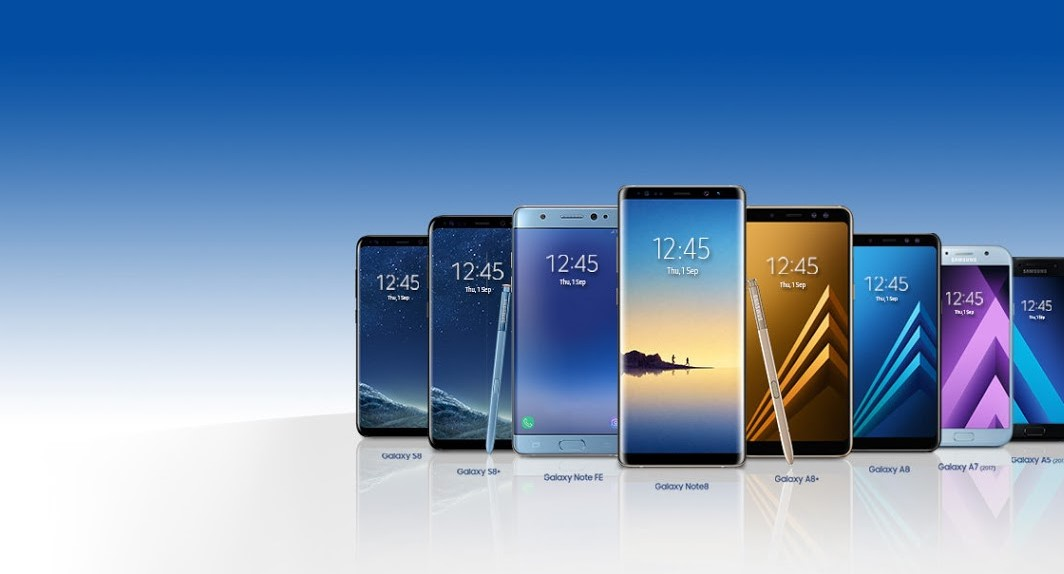
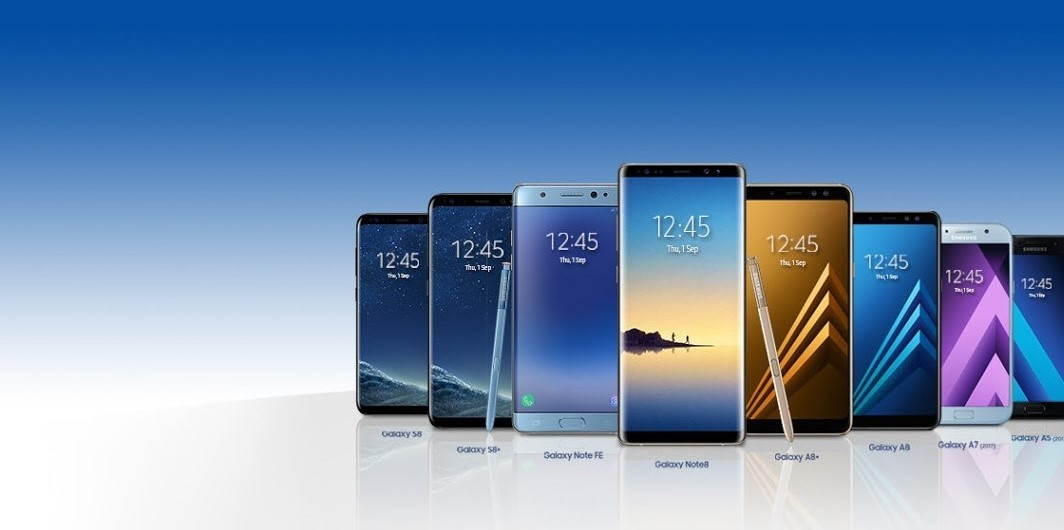
corousel

diff --git a/index.html b/index.html
@@ -3,7 +3,11 @@
   <head>
     <!-- Required meta tags -->
     <meta charset="utf-8">
-    <meta name="viewport" content="width=device-width, initial-scale=1, shrink-to-fit=no">
+    <meta http-equiv="X-UA-Compatible" content="IE=edge">
+    <!-- <meta name="viewport" content="width=device-width, initial-scale=1, shrink-to-fit=no"> -->
+    <!-- Mobile Metas -->
+    <meta name="viewport" content="width=device-width, minimum-scale=1.0, maximum-scale=1.0, user-scalable=no">
+    
     <link rel="stylesheet" href="css/styles.css">
     <!-- Bootstrap CSS -->
     <script src='https://kit.fontawesome.com/a076d05399.js'></script>
@@ -14,7 +18,7 @@
   </head>
   <body>
    
-    <nav class="navbar navbar-expand-lg navbar-dark bg-info">
+    <nav class="navbar navbar-expand-lg navbar-dark">
             <a class="navbar-brand" href="index.html">GN MobileStore</a>
             <button class="navbar-toggler" type="button" data-toggle="collapse" data-target="#navbarSupportedContent" aria-controls="navbarSupportedContent" aria-expanded="false" aria-label="Toggle navigation">
               <span class="navbar-toggler-icon"></span>
@@ -74,11 +78,11 @@
         <span class="sr-only">Next</span>
       </a>
     </div>
-    <div class="container p-3" id="About" >
-      <div class="row justify-content-center bg-info">
-        <div class="col-4 text-center text-white">
-          <h2 class="font-weight-light text-center">About Us</h2>
-        </div>
+    <div class="container-fluid" id="About" >
+      <div class="row justify-content-center align-items-center sub-head">
+        <div class="col-6 text-white"> 
+          <h2 class="remove-whitespace font-weight-light text-center ">About</h2>
+        </div> 
       </div>
       <div class="row justify-content-center bg-light p-3">
         <div class="col-12 text-center">
@@ -91,10 +95,10 @@
         </div>
      </div>
     </div>
-  <div class="container p-3" id="Services">
-    <div class="row justify-content-center bg-info">
-      <div class="col-4 text-center text-white">
-        <h2 class="font-weight-light text-center">Services</h2>
+  <div class="container-fluid" id="Services">
+    <div class="row justify-content-center sub-head">
+      <div class="col-6  text-white text-center">
+        <h2 class="remove-whitespace font-weight-light text-center">Services</h2>
       </div>
     </div>
     <div class="row p-3 bg-light">
@@ -128,10 +132,10 @@
   </div>
 </div>
 
-<div class="container" id="contactUs">
-  <div class="row justify-content-center bg-info">
-    <div class="col-4 text-center text-white">
-      <h2 class="font-weight-light text-center">Contact Us</h2>
+<div class="container-fluid p-3" id="contactUs">
+  <div class="row justify-content-center sub-head">
+    <div class="col-6 text-white">
+      <h2 class="font-weight-light text-center remove-whitespace">Contact</h2>
     </div>
   </div>
   <div class="row justify-content-center p-3 bg-light">
@@ -142,11 +146,12 @@
     </div>
   </div>
   <br>
+  <div class="container-fluid p-3 ">
   <div class="row justify-content-center">
     <div class="col-xl-4 col-lg-4 col-md-4 col-sm-12 thumb bg-white">
-    <div class="card">
-      <img class="card-img-top" src="images/owner.jpg" style="height:300px;"  alt="Card image cap">
-      <div class="card-body">
+    <div class="card" style="height: 100%;">
+      <img class="card-img-top" src="images/owner.jpg"  style="height: 400px;" alt="Card image cap">
+      <div class="card-body owner">
         <h1 class="font-weight-light">Rohit Sachdeva</h1>
         <span><i class="fa fa-quote-left"></i> Owner <i class="fa fa-quote-right"></i></span>
       </div>
@@ -172,32 +177,32 @@
                <p>It is a long established fact that a reader will be distracted by the readable content of a page when looking at its layout. The point of using Lorem  </p>
             </div>
         </div> -->
-        <div class="col-xl-4 col-lg-4 col-md-4 col-sm-12 thumb bg-info">
-          <div class="container">
-             <form>
-                <div class="row justify-content-center">
+        <div class="col-xl-4 col-lg-4 col-md-4 col-sm-12 thumb">
+          <div class="container sub-head rounded" style="height: 100%;">
+             <form action="/send_email" method="post">
+                <div class="row justify-content-center p-3">
                    <div class="col-sm-12">
                     <div class="form-group">
                       <label for="formGroupExampleInput" class="text-white">Name</label>
-                      <input type="text" class="form-control rounded-0" id="formGroupExampleInput" placeholder="Enter your Name" required>
+                      <input type="text" name="name" class="form-control rounded-0" id="formGroupExampleInput" placeholder="Enter your Name" required>
                     </div>
                    </div>
                    <div class="col-sm-12">
                     <div class="form-group">
                       <label for="formGroupExampleInput" class="text-white">Email</label>
-                      <input type="email" class="form-control rounded-0" id="formGroupExampleInput" placeholder="Enter your email address" required>
+                      <input type="email" name="email" class="form-control rounded-0" id="formGroupExampleInput" placeholder="Enter your email address" required>
                     </div>
                    </div>
                    <div class="col-sm-12">
                     <div class="form-group">
                       <label for="formGroupExampleInput" class="text-white">Mobile No</label>
-                      <input type="text" class="form-control rounded-0" id="formGroupExampleInput" placeholder="Enter your Mobile Number" required>
+                      <input type="text" name="mobile" class="form-control rounded-0" id="formGroupExampleInput" placeholder="Enter your Mobile Number" required>
                     </div>
                    </div>
                    <div class="col-sm-12">
                     <div class="form-group">
                       <label for="formGroupExampleInput" class="text-white">Enquiry</label>
-                      <textarea type="textarea" class="form-control rounded-0" id="formGroupExampleInput" placeholder="Enter your Message" required></textarea>
+                      <textarea type="textarea" name="body" class="form-control rounded-0" id="formGroupExampleInput" placeholder="Enter your Message" required></textarea>
                     </div>
                    </div>
                    <div class="col-sm-12 text-center">
@@ -208,7 +213,7 @@
           </div>
        </div>
         </div>
-
+      </div>
     </div>
   </div>
 </div>
@@ -217,7 +222,7 @@
 <footer>
 
   <!-- Copyright -->
-  <div class="footer-copyright text-center py-3 bg-info text-white">© 2020 Copyright:
+  <div class="footer-copyright text-center py-3 sub-head text-white">© 2020 Copyright:
     <a href="www.google.com" class="text-white"> SRServices.com</a>
   </div>
   <!-- Copyright -->

diff --git a/css/styles.css b/css/styles.css
@@ -1,8 +1,9 @@
 .carousel-item img{
-    height: 600px;
+    max-height: 650px;
+    height: auto;
 }
-.carousel-item{
-    height: 600px;
+.carousel-item {
+    height: 100%;
 } 
 
 .fit-image{
@@ -29,3 +30,30 @@
       html {
         scroll-behavior: smooth;
       }
+
+      title {
+          font-family: Arial, Helvetica, sans-serif;
+      }
+
+      a {
+        font-family: Arial, Helvetica, sans-serif;
+      }
+
+      nav {
+          background-color:rgb(43, 230, 43);  
+        }
+
+    .sub-head {
+        background-color:rgb(43, 230, 43); 
+        font-family:Arial, Helvetica, sans-serif;
+    }
+        
+    h2.remove-whitespace {
+            margin: 0;
+    }
+    .owner {
+        background-color:rgb(43, 230, 43); 
+        color: honeydew;
+    }
+    
+    

diff --git a/send_email.py b/send_email.py
@@ -1,0 +1,42 @@
+
+# import smtplib 
+# import cgi
+# from flask import request, redirect
+@app.route('/sendemail', methods = ['POST'])
+# form = cgi.FieldStorage()
+# name =  form.getvalue('name')
+# email=form.getvalue('email')
+# body=form.getvalue('body')
+# mobile=form.getvalue('mobile')
+# print(form['name'].value)
+# print(form['email'].value)
+
+def sendemail():
+    # email = request.form['email']
+    print("The email address is")
+    # return redirect('/index.html')
+
+# s = smtplib.SMTP('smtp.gmail.com', 587) 
+
+# # start TLS for security 
+# s.starttls() 
+
+# # Authentication 
+# s.login("sunnysambyal15@gmail.com", "jxfnwnomelanrwlx") 
+
+# sender = email
+# receiver = "sunnysambyal15@gmail.com"
+
+# # message to be sent 
+# message = f"""\
+# Subject: Hi Sunny
+# To: {receiver}
+# From: {sender}
+
+# Name:"+Name+"\nMobile No:"+nMobile+"\nEnquiry:"+body"""
+
+# # sending the mail 
+# s.sendmail(email, receiver, message) 
+
+# # terminating the session 
+# s.quit() 
